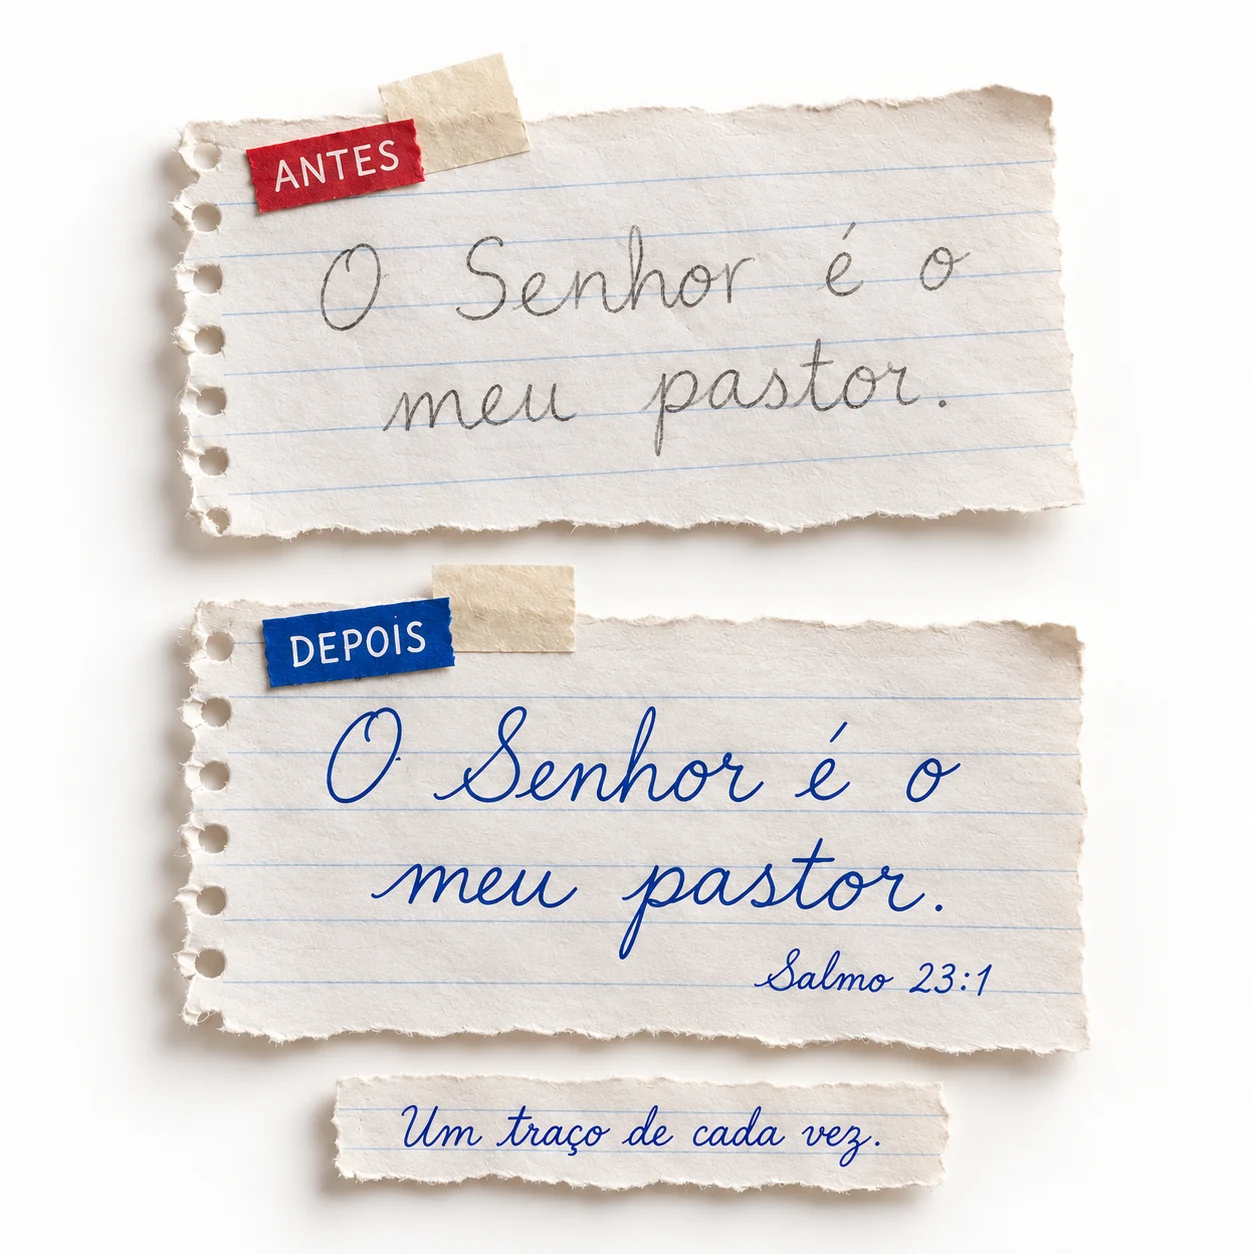
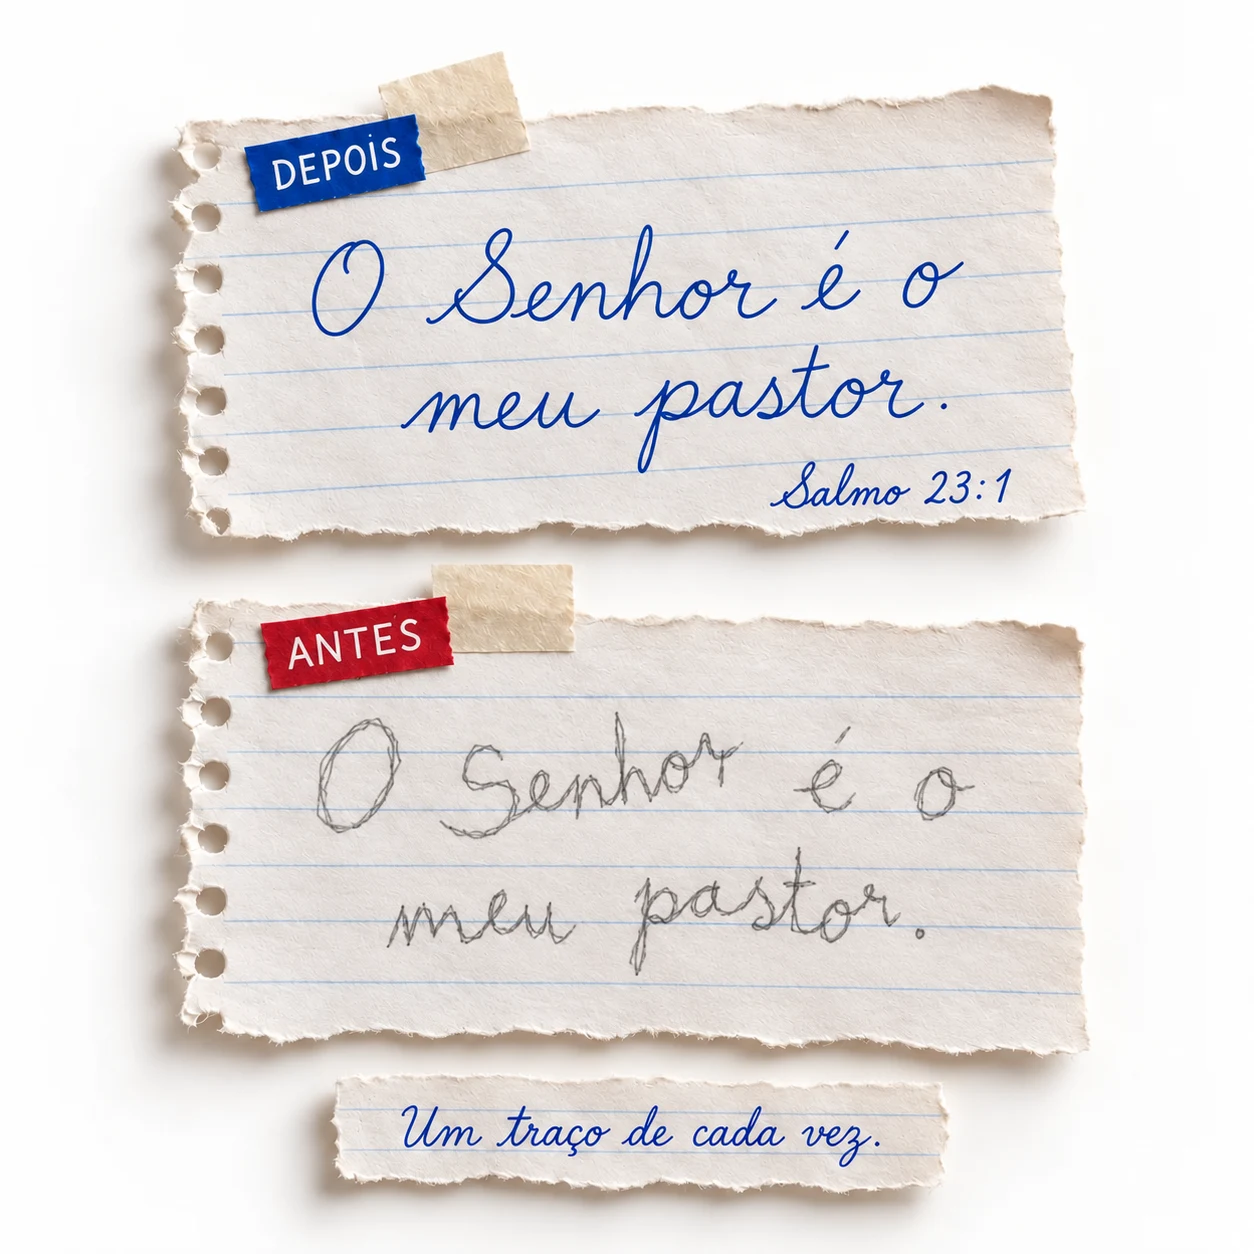
feat: refine second-section copy and emphasize handwriting contrast

diff --git a/src/sections/Material.jsx b/src/sections/Material.jsx
@@ -6,14 +6,16 @@ export default function Material() {
     <div className="container comparison-layout">
       <figure className="comparison-visual">
         <img src={product.images.comparison} width="1254" height="1254" loading="lazy" decoding="async"
-          alt="Comparação ilustrativa ANTES e DEPOIS: duas folhas de caderno rasgadas, presas com fita adesiva, mostram o trecho O Senhor é o meu pastor em escrita inicial irregular e em cursiva organizada."/>
+          alt="Comparação ilustrativa: DEPOIS acima, com cursiva firme e organizada em azul; ANTES abaixo, com escrita infantil tremida, irregular e insegura a lápis. As folhas de caderno têm bordas rasgadas e fita adesiva."/>
         <figcaption>Exemplos ilustrativos de escrita. Não representam um resultado garantido.</figcaption>
       </figure>
       <div className="comparison-copy">
-        <p>A rotina é corrida, e entre tantas telas e distrações, encontrar uma atividade que estimule a escrita e também aproxime as crianças da Palavra de Deus pode fazer toda a diferença.</p>
+        <p>Em meio a tantas telas, distrações e à correria do dia a dia, encontrar uma atividade que realmente contribua para o aprendizado dos pequenos e ainda fortaleça os valores da família é um verdadeiro presente.</p>
         <p className="comparison-origin">Foi pensando nisso que nasceu o <strong>Salmos na Ponta do Lápis.</strong></p>
-        <p>Com atividades de caligrafia inspiradas nos <strong>Salmos da Bíblia</strong>, as crianças são convidadas a praticar a escrita cursiva enquanto conhecem mensagens de <strong>fé, amor e sabedoria.</strong></p>
-        <p className="comparison-purpose"><strong><em>Mais do que praticar a letra, é aprender com propósito.</em></strong></p>
+        <p>Um material especial que transforma a prática da caligrafia em momentos de descoberta, aprendizado e <strong>conexão com a Palavra de Deus.</strong></p>
+        <p>A cada atividade, a criança é convidada a desenvolver sua escrita cursiva enquanto conhece mensagens dos Salmos que falam de <strong>amor, fé, gratidão e sabedoria.</strong></p>
+        <p>Porque ensinar uma criança a escrever é importante. Mas tornar esse aprendizado cheio de significado é ainda mais especial.</p>
+        <p className="comparison-purpose"><strong><em>Mais do que formar letras bonitas, é plantar sementes de fé em cada pequeno coração.</em></strong></p>
       </div>
     </div>
   </section>;

diff --git a/tests/app.test.jsx b/tests/app.test.jsx
@@ -9,7 +9,7 @@ describe('Página de vendas', () => {
   render(<App/>);
   const section=document.getElementById('material');
   expect(document.querySelectorAll('main > section')[1]).toBe(section);
-  expect(within(section).getByRole('img')).toHaveAccessibleName(/Comparação ilustrativa ANTES e DEPOIS/);
+  expect(within(section).getByRole('img')).toHaveAccessibleName(/Comparação ilustrativa: DEPOIS acima/);
   expect(section).toHaveTextContent('Exemplos ilustrativos de escrita. Não representam um resultado garantido.');
   expect(within(section).queryByRole('tablist')).not.toBeInTheDocument();
   expect(within(section).queryByRole('button')).not.toBeInTheDocument();

diff --git a/src/sections/Material.css b/src/sections/Material.css
@@ -33,7 +33,7 @@
   margin: 0 0 21px;
 }
 .material-comparison .comparison-copy strong { color: #24553e; font-weight: 900; }
-.material-comparison .comparison-copy .comparison-origin { color: #496552; }
+.material-comparison .comparison-copy .comparison-origin { color: #24553e; font-weight: 900; }
 .material-comparison .comparison-copy .comparison-purpose {
   margin: 26px 0 0;
   padding: 1px 0 1px 18px;

diff --git a/public/images/README.md b/public/images/README.md
@@ -5,6 +5,6 @@ Artes originais geradas para o projeto Salmos na Ponta do Lápis:
 - `biblical-friends.webp`: grupo de personagens bíblicos infantis com crianças, livro e ovelhinha; fundo transparente.
 - `child-writing.webp`: criança escrevendo com uma ovelhinha; contexto visual de vídeo e oferta.
 - `biblical-garden.webp`: jardim bíblico com personagens, cidade ao fundo, nuvens e luz acolhedora.
-- `caligrafia-antes-depois.webp`: composição fotográfica original gerada para a segunda seção, com folhas rasgadas, etiquetas ANTES/DEPOIS e escrita fictícia. Exemplos ilustrativos, sem promessa de resultado garantido.
+- `caligrafia-antes-depois.webp`: composição fotográfica original gerada para a segunda seção, com folhas rasgadas, etiqueta azul DEPOIS na folha superior e etiqueta vermelha ANTES na inferior. A cursiva firme de cima contrasta com a escrita fictícia infantil tremida e insegura de baixo. Exemplos ilustrativos, sem promessa de resultado garantido.
 
 São imagens ilustrativas, não fotografias de clientes, páginas reais do material ou prova de resultados. Não foram extraídas da referência. Os originais PNG permanecem preservados fora do repositório; estes arquivos WebP foram otimizados para a página. Configure as substituições em `src/config.js`.
